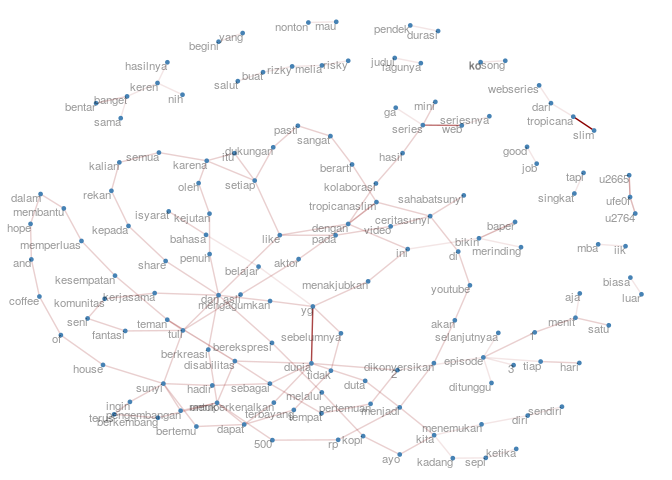
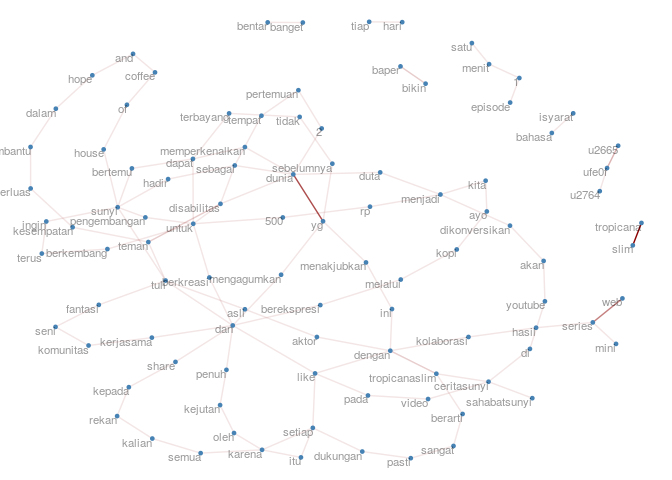
news

diff --git a/Bukan Infografis/Sunyi/2019-12-4-blog-posting-sunyi.md b/Bukan Infografis/Sunyi/2019-12-4-blog-posting-sunyi.md
@@ -351,6 +351,8 @@ dilakukan:
     memiliki asosiasi tinggi.
 4.  **Topic modellling**: mencari tahu kesamaan dari sekian banyak
     komentar itu dan dikelompokkan berdasarkan kesamaannya tersebut.
+5.  **Sentiment Analysis**: Menganalisa sentimen dari masing-masing
+    komentar *viewers*. Apakah positif atau negatif?
 
 Oke, kita mulai dari yang paling gampang dulu yah.
 
@@ -399,7 +401,20 @@ Ada yang mau *ngerjain* *wordcloud* per episodenya?
 
 Bi-gram adalah pasangan kata yang selalu muncul secara bersamaan dan
 berurutan. Nah, kita akan lihat, apakah ada pasangan kata yang sering
-muncul pada komentar
-*viewers*?
+muncul pada komentar *viewers*?
+
+Berikut adalah grafik dari *bigrams* yang memiliki frekuensi kemunculan
+lebih dari dua
+(`>2`):
 
 ![](2019-12-4-blog-posting-sunyi_files/figure-gfm/unnamed-chunk-18-1.png)<!-- -->
+
+##### Word Association
+
+NAME=gsub(“\[^\\x01-\\x7F\]”, "“, NAME) \#menghilangkan emoticons
+NAME=iconv(NAME,”latin1“,”ASCII“, sub=”“) \#MENGHILANGKAN karakter non
+ascii NAME=Corpus(VectorSource(NAME)) NAME = tm\_map(NAME,
+content\_transformer(tolower)) NAME = tm\_map(NAME,removePunctuation)
+NAME= tm\_map(NAME, stripWhitespace) NAME=tm\_map(NAME,removeWords,
+stopwords(”en“)) NAME=tm\_map(NAME,removeNumbers) \#NAME \<-
+tm\_map(NAME, stemDocument, language =”english")
